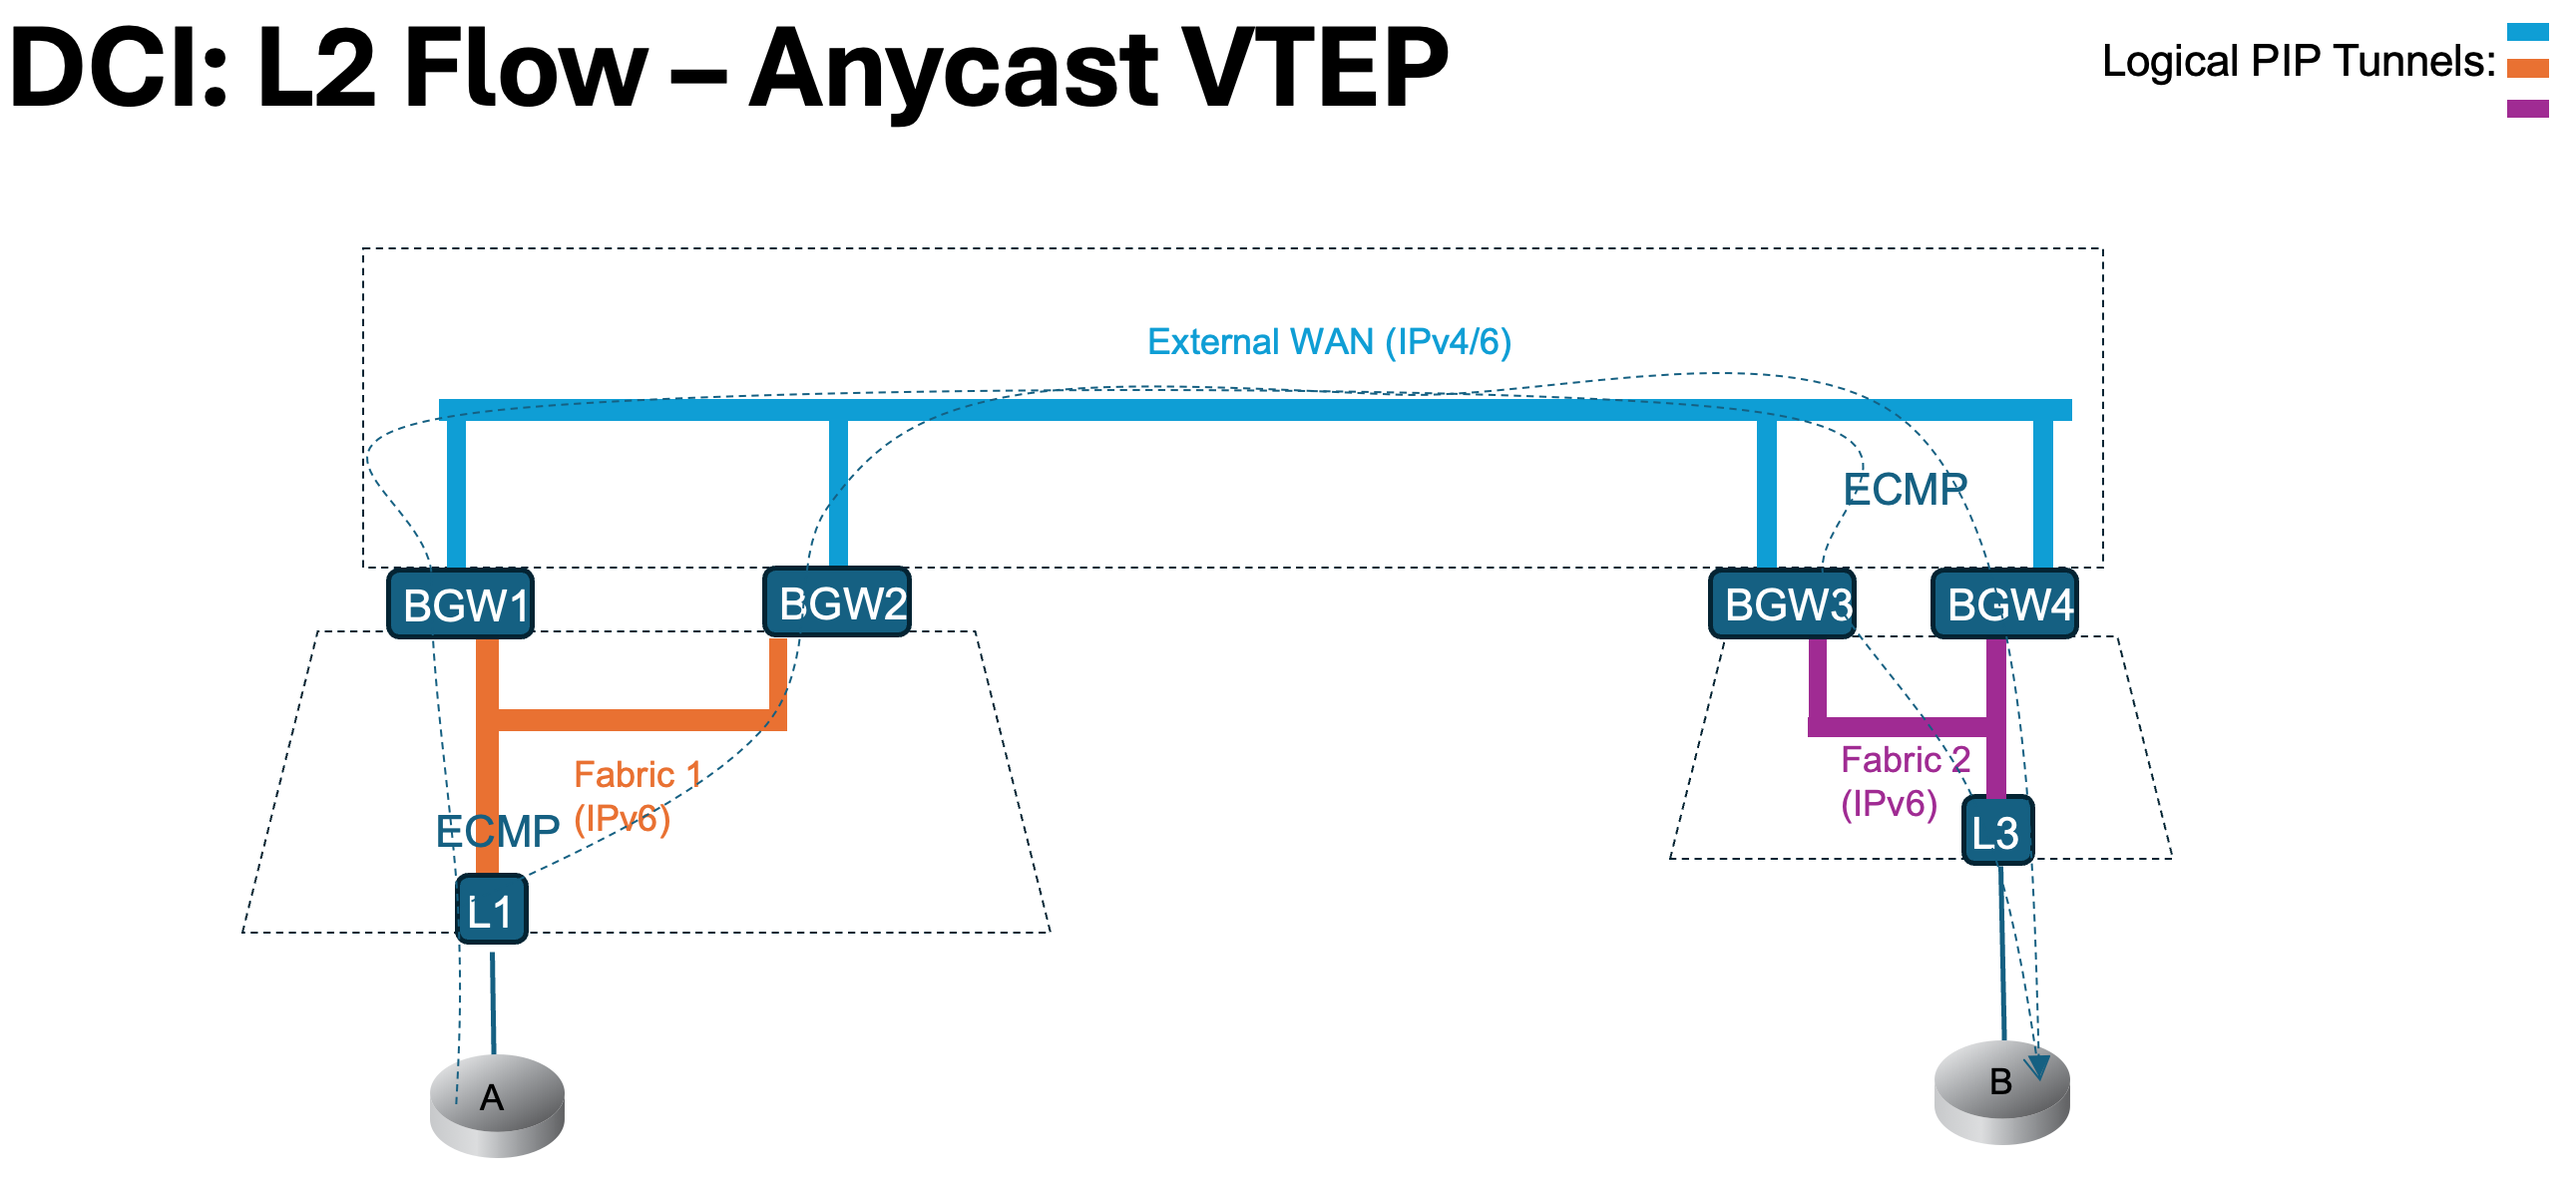
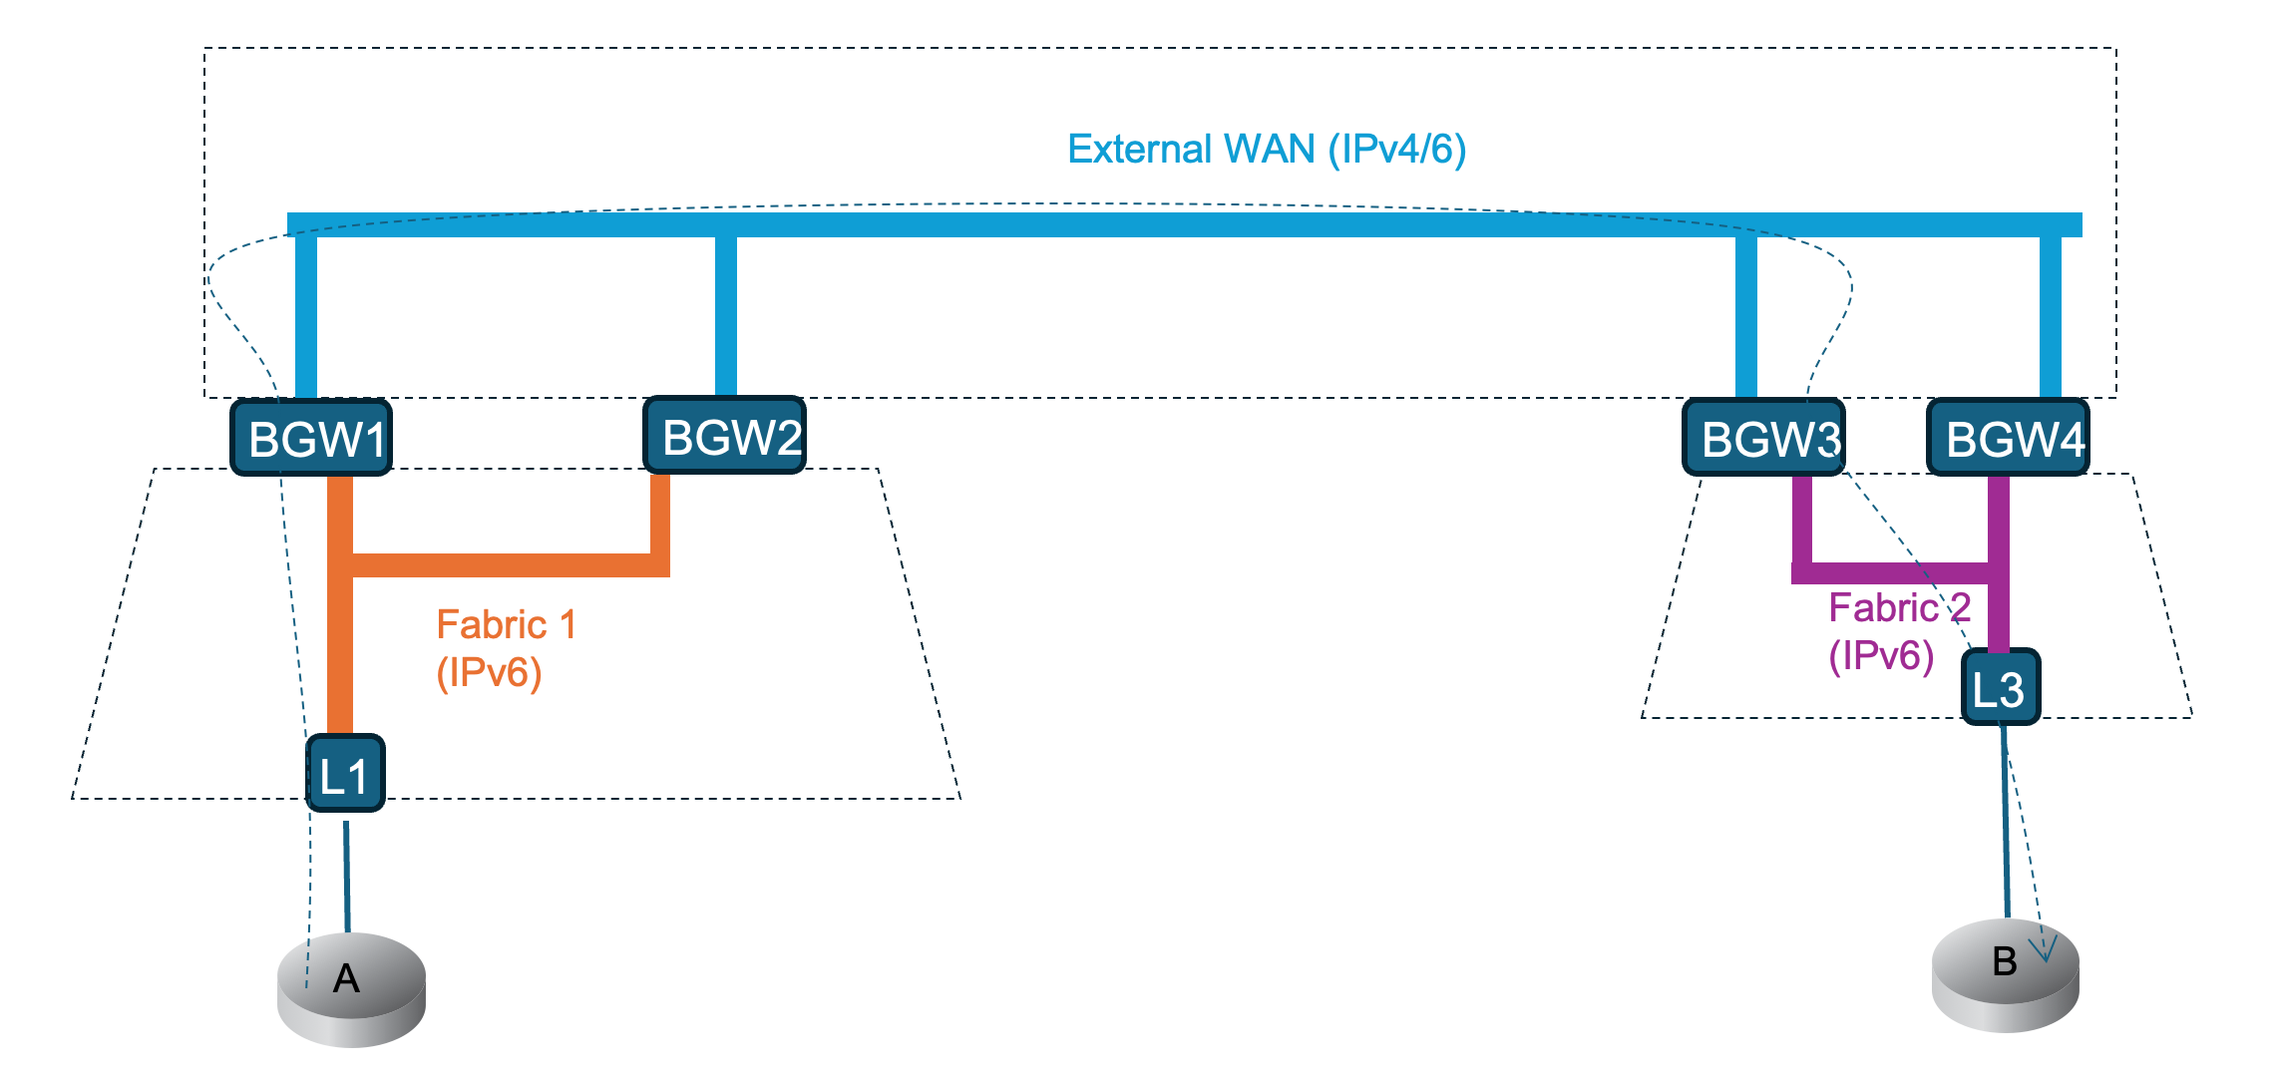
Updating avanatages and traffic-floe-vip pictures + moving Ethernet Segment concept to proper place in the doc

diff --git a/doc/vxlan/EVPN/DCI_HLD.md b/doc/vxlan/EVPN/DCI_HLD.md
@@ -228,34 +228,45 @@ The domain concept significantly enhances the architecture by enabling a clear s
 #### Site
 A data center domain interconnects with a WAN domain via a pair of redundant BGW nodes where DCI functionality is provided. That pair of BGW nodes and its DC domain form a site. It is identified by defining a site-id. Both BGW node share that same site-id.
 
+#### Ethernet Segment
+In scenarios where there is no directly connected host or orphan ports on BGW nodes and with the usage of anycast VTEP per domain per site, the usage of Ethernet Segment is not required. BUM traffic always hits a side BGW node when ingress replication is performed.
+
+When there are locally connected hosts, and/or when L3 services are enabled, an Ethernet Segment is required to identify the logical connectivity of the data center. The Ethernet Segment Identifier (ESI) is generated using a site identifier (site-id), with one assigned per pair of BGW node per connected data center domain. In this context, the data center is treated as an access network connected to the BGW, where loops must be avoided. As a result, VXLAN tunnels between peering BGWs are only established on either the DC or the WAN side; a configurable knob is used to determine the behavior. The WAN is chosen as default. Each multi-homed host also receives its own ESI, and the site-id is used to determine Designated and Non-Designated Forwarding towards the data center as if it is a connected access device. This approach aligns with best practices for loop-free access connectivity, often enforced by protocols such as STP.
+
+As any typical VxLAN node handling multi-homing, local bias is performed on peering BGW during BUM traffic handling.
+The following picture demonstration the logical representation of various Ethernet Segment at play.
+
+![Ethernet Segments](images/dci-ethernet-segment.png)
+*Figure 3: Ethernet Segments*
+
 #### Forwarding Paradigm
 A BGW node performs simple operations to achieve DCI functionality. For each incoming packet from DC/WAN side, a full tunnel disposition chain is performed followed by a lookup based on the inner payload followed by a full tunnel imposition chain. For layer-2 connectivity, it looks like:
 
 ![L2 Forwarding Paradigm](images/dci-fwd-paradigm.png)
-*Figure 3: L2 Forwarding Paradigm*
+*Figure 4: L2 Forwarding Paradigm*
 Dataplane MAC learning is disable on these tunnels / ports. All programmed MAC entries are coming from BGP-EVPN; remote MAC are installed with remote nexthop taken from EVPN RT-2. The same forwarding paradigm is used in both directions
 
 Similarly, for layer-3 connectivity, the forwarding chain looks like:
 
 ![L3 Forwarding Paradigm](images/dci-fwd-l3paradigm.png)
-*Figure 4: L3 Forwarding Paradigm*
+*Figure 5: L3 Forwarding Paradigm*
 
 IP entries are installed in the VRF with remote nexthop taken from either the EVPN RT-2 IP portion or from EVPN RT-5.
 Finally, to complete the picture, directly connected host may also be attached to the BGW node. In that case the forwarding chain looks like:
 
 ![DCI Forwarding Paradigm](images/dci-fwd-allparadigm.png)
-*Figure 5: DCI Forwarding Paradigm*
+*Figure 6: DCI Forwarding Paradigm*
 
 Since BGW comes generally in pair for redundancy, to support locally connected host on BGW, EVPN Ethernet Segment, DF election, local bias and carving are required. This is well describes in [Ethernet Segment](#ethernet-segment) and [Traffic Flows](#traffic-flows) sections.
 
 Lastly, it may also be possible to run VRF-lite as described in section [Combining BL function with BGW](#combining-bl-function-with-bgw). This allows the BGW to send traffic to external northbound customer. 
 
 #### Remote entries programming
-The L2 DCI functionality is achieved by installing EVPN remote MAC received from DC & WAN domains. This allow the MAC lookup to be performed properly after tunnel termination. Similar approach is taken for IP payload where the lookup is performed within the appropriate VRF. EVPN installs remote MAC/IP received from Dc & WAN domains.
+The L2 DCI functionality is achieved by installing EVPN remote MAC received from DC & WAN domains. This allow the MAC lookup to be performed properly after tunnel termination. Similar approach is taken for IP payload where the lookup is performed within the appropriate VRF. EVPN installs remote MAC/IP received from DC & WAN domains.
 
 #### Tunnel Establishment
 ![Tunnels Establishment](images/dci-tunnel-establish.png)
-*Figure 6: Tunnels Establishment*
+*Figure 7: Tunnels Establishment*
 
 With VxLAN, tunnels are established per source and destination VTEP addresses. During imposition procedures, the association of the VNI value is done per destination VTEP address. In the example of a BGW node, the VNI value differ for each domain / destination. This allows the support of downstream assigned VNI used in a different context/scenario when required.
 
@@ -264,19 +275,19 @@ The implementation is done using a normalized symmetric VNI approach in the WAN 
 This approach is geared towards greenfield or fully managed deployments. Main advantages are: simplicity in term of monitoring, statistic, debugability and consistency. This solution also scale much better; it avoid having VNI dependency on the nexthop object. The normalized VNI value must be globally unique across all domains (WAN and data centers).
 
 ![Normalized-VNI Achitecture](images/dci-normalized-vni.png)
-*Figure 7: Normalized-VNI Architecture*
+*Figure 8: Normalized-VNI Architecture*
 
 Other NOS may use a difference approach where VNI being used are coming from BGP routes. That assymetric approach is refered as downstream-assign VNI. It is usually used in brownfield deployment where there are already an established WAN connecting data centers using different VNI values. The main advantage is to have a single VNI rewrite across the entire network (instead of two with normalized-vni approach). On the down side, the VNI value being imposed is now dependent of the remote nexthop.
 
 ![Downstream-assign VNI Achitecture](images/dci-downstream-assign.png)
-*Figure 8: Downstream-assign VNI Architecture*
+*Figure 9: Downstream-assign VNI Architecture*
 
 ##### Asymmetric L3VNI Routing
 
 When Layer-3 services are required in a DCI deployment, an asymmetric L3VNI routing model can be employed. This approach is particularly useful in brownfield environments where different data centers use different L3VNI values for the same tenant VRF, while maintaining a normalized VNI across the WAN for consistency.
 
 ![Asymmetric L3VNI packet flow](images/dci-assymetric-vni.png)
-*Figure 9: Asymmetric L3VNI packet flow*
+*Figure 10: Asymmetric L3VNI packet flow*
 
 In the asymmetric L3VNI model, as illustrated in the diagram:
 
@@ -319,17 +330,6 @@ When locally connected hosts are present, anycast VTEP is no longer suitable. A 
 
 Additionally, when L3 services are enabled, physical VTEP must be used. In some deployments, both anycast and physical VTEPs may operate together using the VIP for L2 services and the PIP for L3 services. The exact combination depends on the specific setup and supported features.
 
-#### Ethernet Segment
-In scenarios where there is no directly connected host or orphan ports on BGW nodes and with the usage of anycast VTEP per domain per site, the usage of Ethernet Segment is not required. BUM traffic always hits a side BGW node when ingress replication is performed.
-
-When there are locally connected hosts, and/or when L3 services are enabled, an Ethernet Segment is required to identify the logical connectivity of the data center. The Ethernet Segment Identifier (ESI) is generated using a site identifier (site-id), with one assigned per pair of BGW node per connected data center domain. In this context, the data center is treated as an access network connected to the BGW, where loops must be avoided. As a result, VXLAN tunnels between peering BGWs are only established on either the DC or the WAN side; a configurable knob is used to determine the behavior. The WAN is chosen as default. Each multi-homed host also receives its own ESI, and the site-id is used to determine Designated and Non-Designated Forwarding towards the data center as if it is a connected access device. This approach aligns with best practices for loop-free access connectivity, often enforced by protocols such as STP.
-
-As any typical VxLAN node handling multi-homing, local bias is performed on peering BGW during BUM traffic handling.
-The following picture demonstration the logical representation of various Ethernet Segment at play.
-
-![Ethernet Segments](images/dci-ethernet-segment.png)
-*Figure 10: Ethernet Segments*
-
 #### Forwarding Tables
 When customers use anycast VTEP, it does not change how forwarding tables are built and how entries are resolved. For instance, there is no need for an extra recursion. The following pictures illustrate how FIB and FDB tables are built based on anycast VIP.
 The first picture shows an example with separate Spine and BGW nodes.
@@ -348,7 +348,7 @@ The usage of physical VTEP works in a very similar way; forwarding tables remain
 There are variant of the traffic flows for L2 connectivity. Following sub-sections are describing them:
 
 ##### Anycast VTEP - no directly connected host / orphan port
-All packets, whether BUM or unicast, are handled similarly. With anycast VTEPs configured per domain on BGW nodes, traffic forwarding uses ECMP, so a BGW pair appears as a single device to remote nodes. Upon reaching the destination data center, BUM traffic is distributed using ingress replication, while unicast traffic is typically forwarded via ECMP or direct paths.
+All packets, whether BUM or unicast, are handled similarly. With anycast VTEPs configured per domain on BGW nodes, traffic forwarding uses underlay ECMP, so a BGW pair appears as a single device to remote nodes. Upon reaching the destination data center, BUM traffic is distributed using ingress replication, while unicast traffic is typically forwarded via underlay ECMP or direct paths.
 
 ![Traffic flow - Anycast VIP](images/dci-traffic-flow-vip.png)
 *Figure 13: Traffic flow - Anycast VIP, no orphan port*
